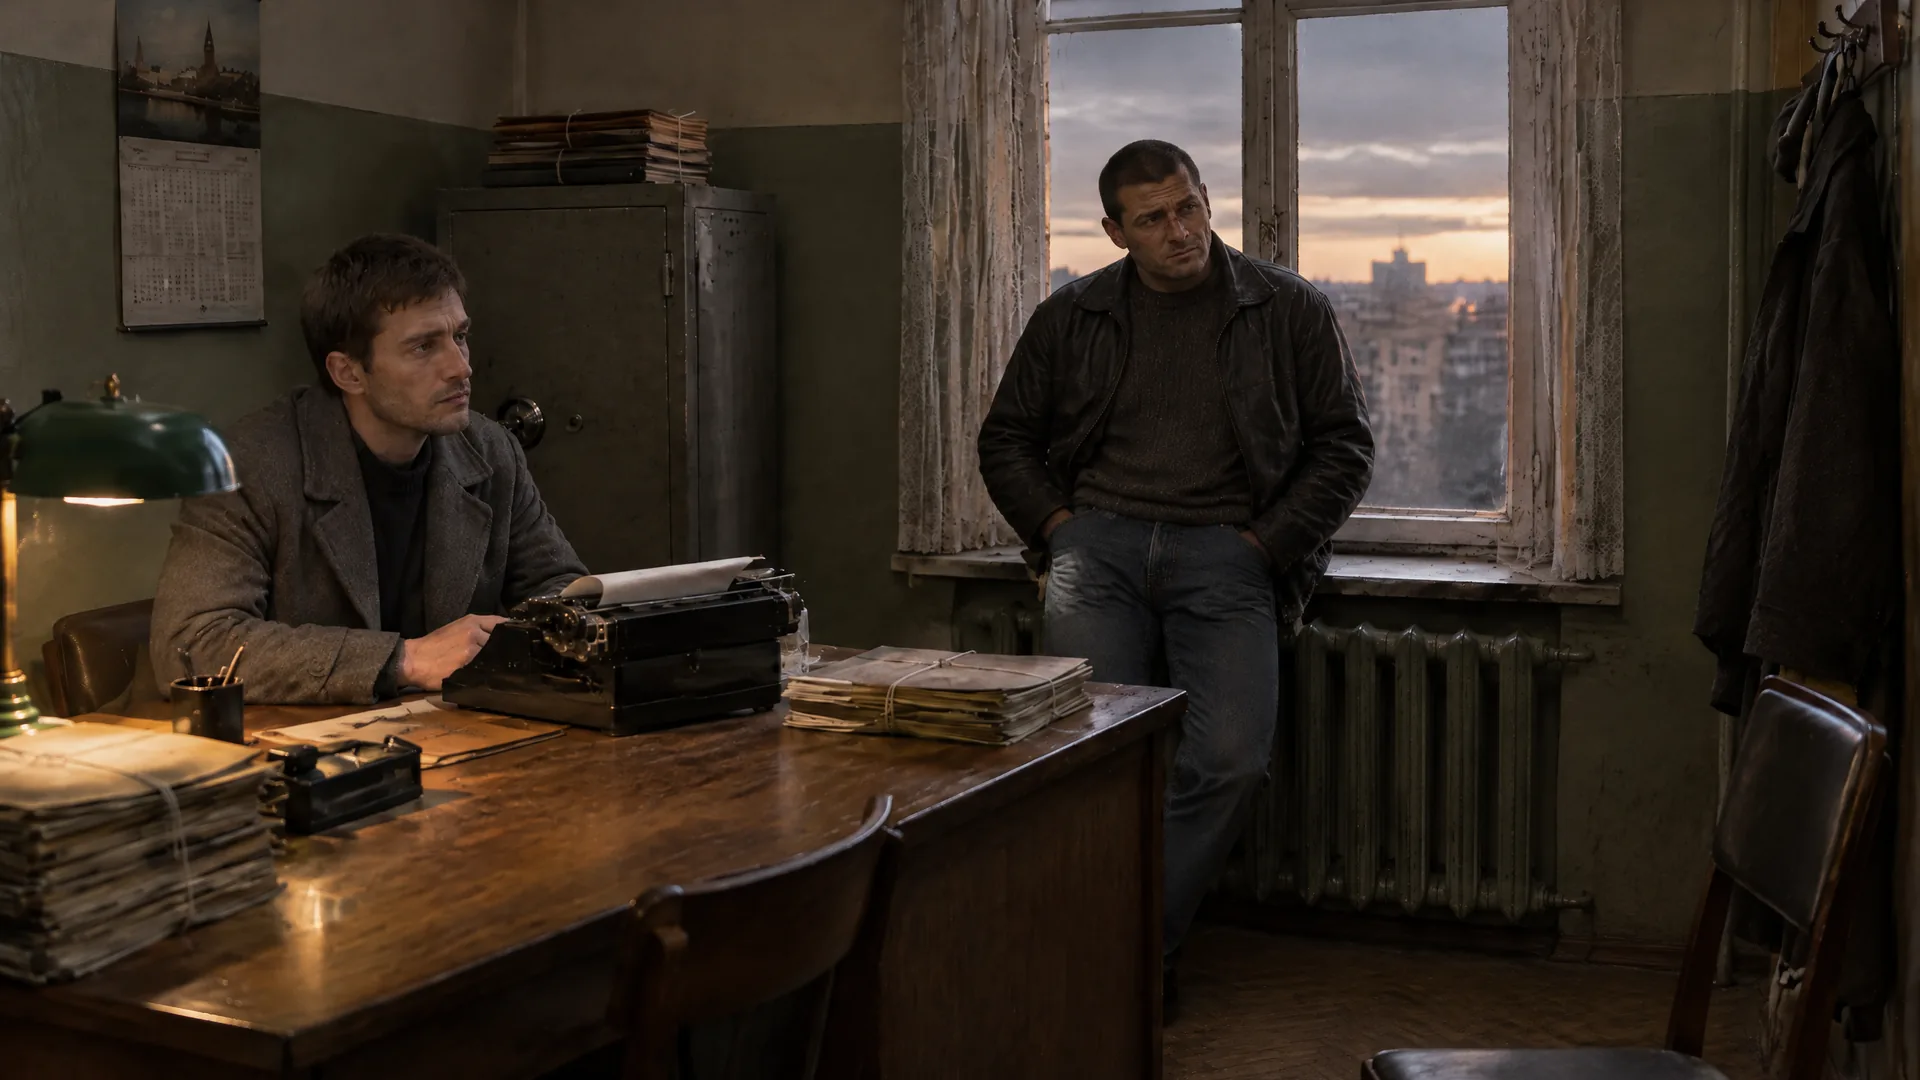
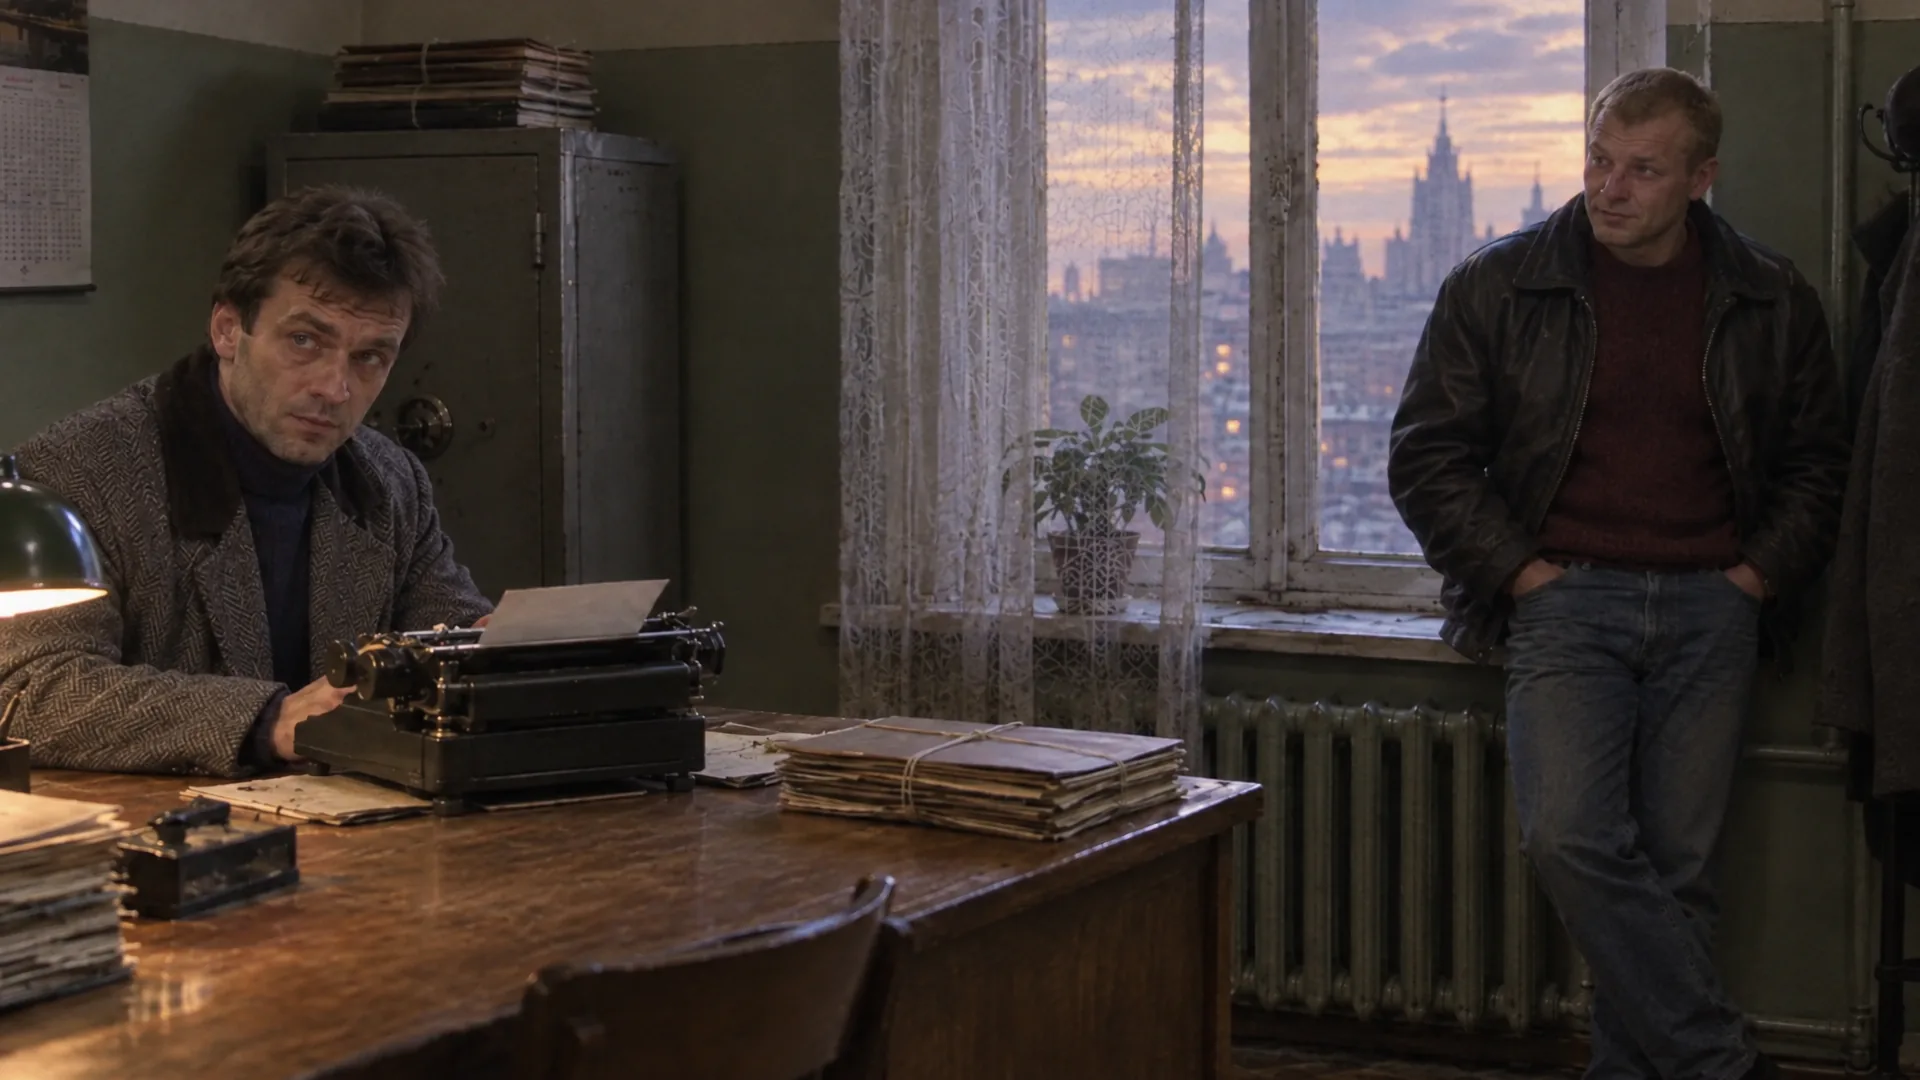
Пересъёмка на high: office_evening — 25 кадров; эталон крупного плана — свой
Волна A — общие планы и эталонный крупный план, кропы wide_1 и wide_3
(соло); волна B — 21 кадр. Планировщик: эталон комнаты для крупного плана
и реакции — принятый крупный план того же человека в сете, если он есть
(с чужим крупным планом модель переносила лицо следователя на Левину и
Лапину).

diff --git a/tools/shot_plan.py b/tools/shot_plan.py
@@ -555,6 +555,10 @@ REGEN_REFS: dict[str, dict[str, str]] = {
                "angle": "file:assets/ep01/refs/notary_medium_v2.jpg", "insert": "file:assets/ep01/refs/notary_medium_v2.jpg"},
     "office_day": {"room": "sh_office_day_wide_1", "medium": "file:assets/ep01/refs/office_day_medium_v2.jpg",
                    "angle": "file:assets/ep01/refs/office_day_medium_v2.jpg", "insert": "file:assets/ep01/refs/office_day_medium_v2.jpg"},
+    "office_evening": {"room": "sh_office_evening_wide_1", "medium": "file:assets/ep01/refs/office_evening_medium_v2.jpg",
+                       "angle": "file:assets/ep01/refs/office_evening_medium_v2.jpg",
+                       "insert": "file:assets/ep01/refs/office_evening_medium_v2.jpg",
+                       "medium_solo": "file:assets/ep01/refs/office_evening_medium_solo_v2.jpg"},
 }
 NEW_IDS: set[str] = set()  # записи манифеста с "v": 2 — кадры, принятые уже по новым лицам
 
@@ -735,6 +739,11 @@ def build_prompt(base: str, continuity: str, shot: dict, bg_subject: str, tod: s
                 "at least as close as Reference 1.")
     else:
         ref1 = "Reference 1 is the room itself: keep its furniture, window, lamps and props exactly where they are."
+    if closer and shot["kind"] in ("close", "reaction"):
+        # Эталон крупного плана — чужой крупный план: без оговорки модель дважды переносила лицо следователя на
+        # женщину в своей одежде (office_day Лапина, office_evening Левина, пересъёмка high).
+        ref1 += (" The person in Reference 1 may be someone else: take only the room from it, never that person's "
+                 "face, hair or clothes.")
     room_ref = shot.get("has_room", bool(closer) or shot["kind"] not in ("close", "reaction"))
     if not room_ref:
         ref1 = None
@@ -869,6 +878,13 @@ def plan_set(d: dict, ep: dict, bg_subjects, jobs, base, realism, names, sprite_
                 ref_shot = rr[kind]
             elif ref_shot and (ref_shot.startswith("media:") or ref_shot not in NEW_IDS):
                 ref_shot = None  # кадр прежней редакции: другие лица — комнатой идёт новый общий план или фон
+            if kind in ("close", "reaction") and len(cast) == 1 and ref_shot:
+                # Эталон — принятый крупный план того же человека в этом сете, если есть: с чужим крупным планом модель
+                # переносила лицо эталона на героя (пересъёмка high: Лапина в office_day, Левина в office_evening).
+                pre = f"sh_{set_name}_close_{cast[0]['who']}_"
+                own = sorted(i for i in NEW_IDS if i.startswith(pre) and "_" not in i[len(pre):])
+                if own:
+                    ref_shot = own[0]
         if ref_shot and ref_shot.startswith(("media:", "file:")):  # кроп (assets/ep01/refs): загруженный в Higgsfield или локальный файл для gpt-image
             out = [ref_shot.removeprefix("media:")]
         else:

diff --git a/assets/ep01/generation-log.md b/assets/ep01/generation-log.md
@@ -418,6 +418,7 @@ daylight, slush»). Решение: панорама хроники переге
 | 104 | **Пересъёмка apartment_zoya на high** через API: волна A — wide ×4 и эталонный крупный план Зои; кроп нового wide_1 → `refs/apartment_zoya_medium_v2.jpg`; волна B — 30 кадров | 35 из 35 приняты; одна вставка переснята дважды: «рука в перчатке» без хозяина — модель надела чёрную перчатку на рукав пальто Зои; в `INSERTS` теперь рука эксперта в резиновой перчатке с манжетой халата и фото «молодой солдат в фуражке», как на крупных планах сета; ≈ $2.9 |
 | 105 | **Пересъёмка notary на high** через API (первый сет, снятый по новым лицам впервые): волна A — wide ×2 и эталонный крупный план нотариуса; кроп нового wide_1 → `refs/notary_medium_v2.jpg`, `REGEN_REFS["notary"]`; волна B — 26 кадров | 29 из 29 приняты; ракурс из коридора переснят: в очереди на переднем плане модель поставила женщину в сером берете и вишнёвом пальто (вторая Зоя) — в тексте ракурса теперь «очередь — незнакомцы в тёмных пальто и кепках, ни на кого из героев не похожи»; ≈ $2.4 |
 | 106 | **Пересъёмка office_day на high** через API: волна A — wide ×4 и эталонный крупный план следователя; кроп нового wide_1 → `refs/office_day_medium_v2.jpg`, `REGEN_REFS["office_day"]`; волна B — 36 кадров | 41 из 41 приняты; один крупный план переснят: у Ирины Лапиной вышло чужое (мужское) лицо — со второго раза по портрету; ≈ $3.3 |
+| 107 | **Пересъёмка office_evening на high** через API: волна A — wide ×3 и эталонный крупный план; кропы нового wide_1 (средний) и wide_3 (соло, следователь один: доли 0.052 0.185 0.646 0.779); волна B — 21 кадр | 25 из 25 приняты; крупный план Левиной дважды вышел с лицом следователя (эталон комнаты — его крупный план). Текстовая оговорка «человек на Reference 1 может быть другим» не помогла; помогло правило планировщика: эталон крупного плана и реакции — принятый крупный план того же человека в этом сете, если он есть; ≈ $2.2 |
 
 Правила, добавленные по итогам: словесные приметы каждого референса (`docs/production/prompts/ep01-images.md`,
 таблица персонажей); для `ots` — «камера за спиной X, лицом к камере Y, людей не менять местами» и явные

diff --git a/assets/ep01/regen/README.md b/assets/ep01/regen/README.md
@@ -17,7 +17,7 @@
 |---|---|---|---|
 | Спрайты — базы `neutral` | 13 | 13 (в манифесте, файлы на месте) | Higgsfield high/2k |
 | Спрайты — выражения | 21 | 21 | 13 Higgsfield high/2k, 8 API |
-| Кадры покрытия (все 14 сетов) | 333 | 133 (stairwell, apartment_zoya, notary, office_day закрыты) | API, ≈ $0.08 за кадр |
+| Кадры покрытия (все 14 сетов) | 333 | 158 (stairwell, apartment_zoya, notary, office_day, office_evening закрыты) | API, ≈ $0.08 за кадр |
 | CG (5) и документы `doc_*` (5) | 10 | 0 | API |
 
 Кредиты Higgsfield израсходованы (2,55 — меньше одной картинки high/2k): дальше всё через API. Цены high: 2k — 2,75, 1k — 1,5 кредита
@@ -54,6 +54,7 @@
    → линтер эпизода и `npm --prefix runtime test` → коммит и пуш.
 5. В конце — CG и документы на high.
 
+Крупные планы и реакции: эталон комнаты — принятый крупный план того же человека в сете (планировщик выбирает сам); поэтому в волну A сета кроме общих планов идёт эталонный крупный план из `REF_SHOTS[set]["close"]`.
 Правило для лица Мурашова (силуэт) в ots: верхний край кадра режет его по подбородку — уже в планировщике.
 Ракурс `angle_foreground` apartment_zoya: передний план — спинка кровати, тумбочка с лекарствами одна, у изголовья
 (иначе модель рисует её дважды).
